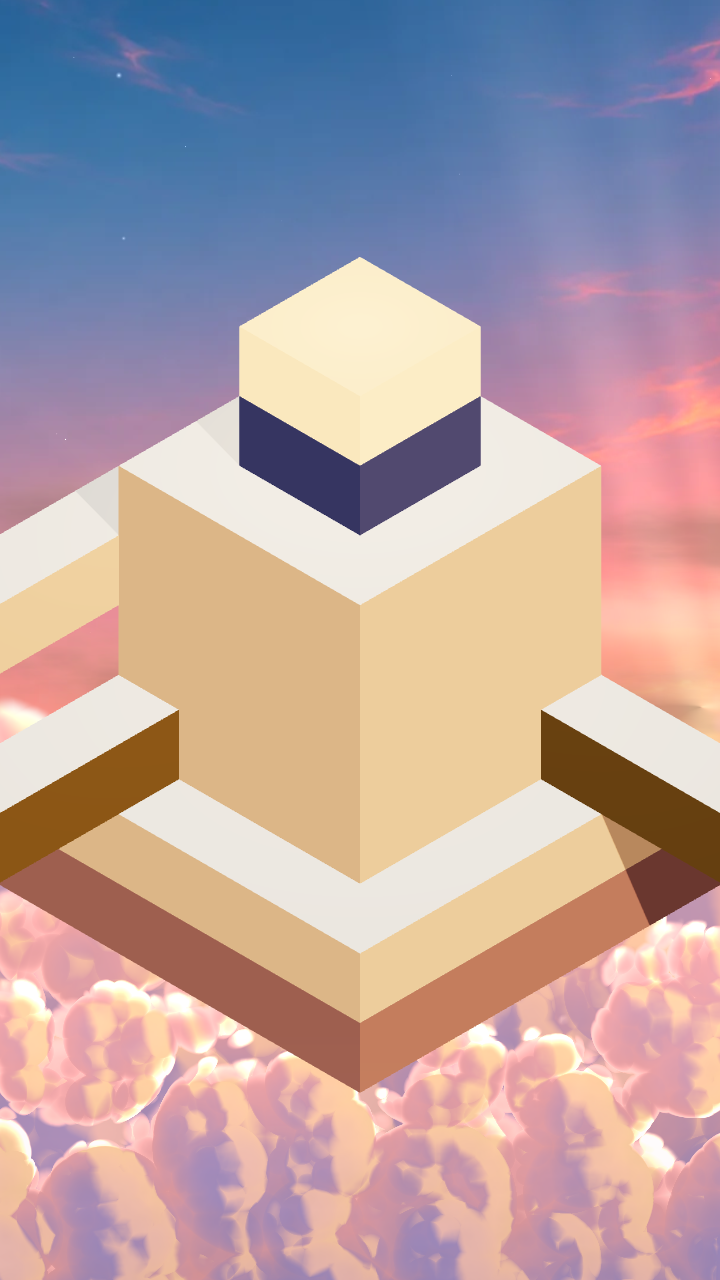
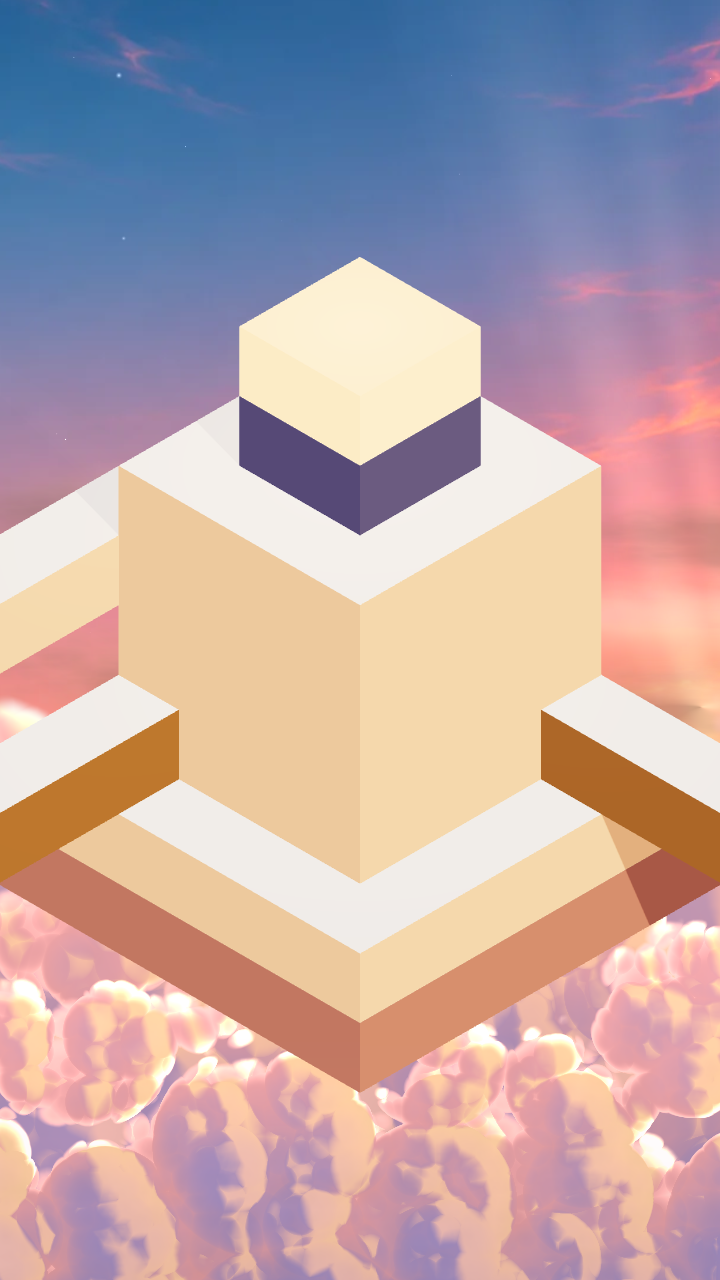
Spirelight: agent work in progress
Claude-Session: https://claude.ai/code/session_01KHq9E4PP77B82NWFRYgzJt

Changed region(s): [[0.0, 0.5625, 0.5194, 0.8438], [0.3056, 0.3125, 0.6722, 0.4375], [0.7333, 0.5625, 1.0, 0.7188]]

diff --git a/spirelight/js/decor.js b/spirelight/js/decor.js
@@ -220,6 +220,7 @@
   // ------------------------------------------------------------------------------------------------ procedural environment (PBR metals need something to reflect)
   function makeEnvMap() {
     try {
+      if (window.__noenv) throw new Error("env disabled");
       const pm = new THREE.PMREMGenerator(renderer);
       const sc = new THREE.Scene();
       const sky = new THREE.Mesh(new THREE.SphereGeometry(50, 32, 16), new THREE.ShaderMaterial({
